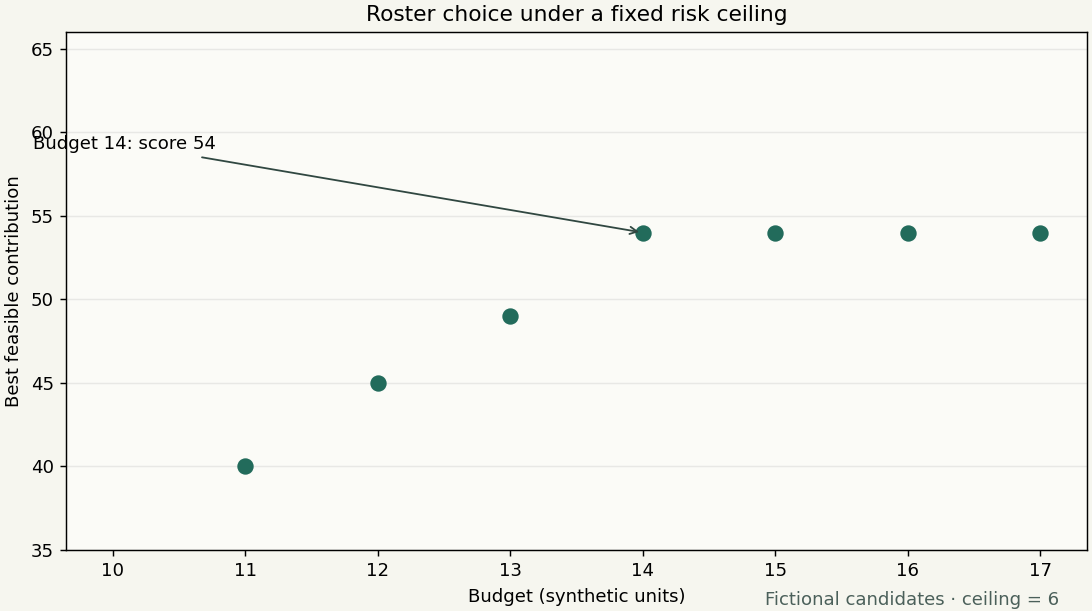
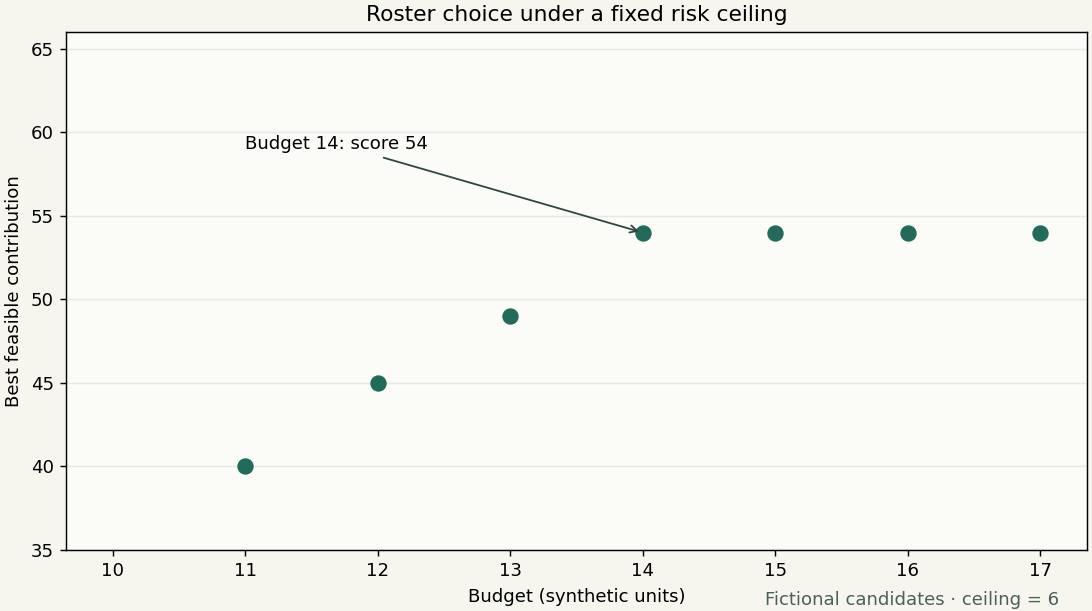
Publish a synthetic roster-optimization case

diff --git a/render_chart.py b/render_chart.py
@@ -15,7 +15,7 @@ for budget in range(9, 18):
         ax.scatter(budget, candidates[0].contribution, color="#226b5b", s=65, zorder=3)
 baseline = ranked_rosters()[0]
 ax.annotate(f"Budget 14: score {baseline.contribution}", (14, baseline.contribution),
-            xytext=(9.4, baseline.contribution + 5), arrowprops={"arrowstyle": "->", "color": "#304741"})
+            xytext=(11, baseline.contribution + 5), arrowprops={"arrowstyle": "->", "color": "#304741"})
 ax.set(title="Roster choice under a fixed risk ceiling", xlabel="Budget (synthetic units)",
        ylabel="Best feasible contribution")
 ax.set_ylim(35, 66)
